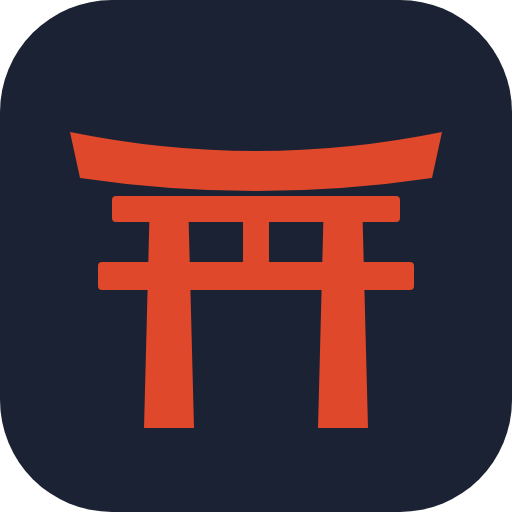
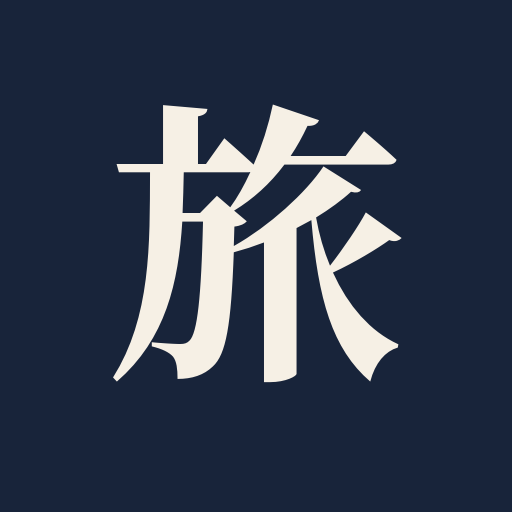
Japón v2: icono 旅, 10 ideas opcionales (relojes, JDM, amuletos) y prioridad en el selector
Claude-Session: https://claude.ai/code/session_01ChrA2XGDoeYdVmK93k58Rc

diff --git a/japon/places.js b/japon/places.js
@@ -3,6 +3,9 @@
 // approx:true = pin aproximado (la navegación usa el nombre en Google Maps).
 window.PLACE_CATS = {
   foto: { name: 'Fotografía', kind: 'shop' },
+  relojes: { name: 'Relojes japoneses', kind: 'shop' },
+  jdm: { name: 'Coches JDM', kind: 'sight' },
+  amuletos: { name: 'Santuarios y amuletos', kind: 'sight' },
   ropa: { name: 'Ropa de 2ª mano', kind: 'shop' },
   figuras: { name: 'Figuras y anime', kind: 'shop' },
   retro: { name: 'Retro y videojuegos', kind: 'shop' },
@@ -22,6 +25,9 @@ window.NEARBY = [
   { n: 'Mandarake', q: 'まんだらけ' },
   { n: 'Surugaya', q: '駿河屋' },
   { n: 'Cámaras usadas', q: '中古カメラ店' },
+  { n: 'Seiko y Citizen usados', q: 'セイコー シチズン 中古時計' },
+  { n: 'Cámaras analógicas', q: 'フィルムカメラ 中古' },
+  { n: 'Ropa de marca usada', q: 'ブランド古着' },
   { n: 'Gasolinera', q: 'ガソリンスタンド', car: true },
   { n: 'Parking', q: 'コインパーキング', car: true },
   { n: 'Onsen', q: '日帰り温泉' },
@@ -29,6 +35,18 @@ window.NEARBY = [
 ];
 
 window.PLACES = [
+  // ── Selección personalizada 2.0 (opcionales, nunca altera reservas) ──
+  {"id": "v2-mapcamera", "cat": "foto", "area": "Tokio · Shinjuku", "name": "Map Camera · Sony E y cámaras usadas", "q": "Map Camera Shinjuku", "ll": [35.6908, 139.6987], "approx": true, "fit": [9], "note": "★ Recomendado para tus intereses. Especialista en objetivos Sony E nuevos y usados; llevar la A7 IV para probar compatibilidad. Revisar precios y garantía. Mejor antes de las 19:00.", "priority": true},
+  {"id": "v2-fujiya", "cat": "foto", "area": "Tokio · Nakano", "name": "Fujiya Camera · Sony y analógicas", "q": "Fujiya Camera Nakano Tokyo", "ll": [35.7068, 139.6652], "approx": true, "fit": [14], "note": "★ Recomendado para tus intereses. Objetivos Sony E, cámaras analógicas y artículos usados. Combinar con Nakano Broadway y comparar estado y garantía.", "priority": true},
+  {"id": "v2-watch-machida", "cat": "relojes", "area": "Tokio · Machida", "name": "BOOKOFF SUPER BAZAAR Machida · relojes y ropa", "q": "BOOKOFF SUPER BAZAAR Machida Chuo-dori apparel", "ll": [35.5445, 139.4482], "approx": true, "fit": [12], "note": "★ Recomendado para tus intereses. Prioridad: Seiko, Casio y Citizen económicos, ropa de marca y accesorios. Inventario cambiante, no se garantiza stock. Hay varios locales/secciones; comprobar dirección.", "priority": true, "car": true},
+  {"id": "v2-watch-akasaka", "cat": "relojes", "area": "Tokio · Akasaka", "name": "Tokyo Watch Market · relojes usados", "q": "TOKYO WATCH MARKET Akasaka", "ll": [35.6748, 139.7367], "approx": true, "fit": [9], "note": "★ Recomendado para tus intereses. Relojería de ocasión. Interesa especialmente para Seiko/Citizen/Casio; comprobar horario en la web o redes oficiales antes de desplazarse.", "priority": true},
+  {"id": "v2-nakano-watch", "cat": "relojes", "area": "Tokio · Nakano", "name": "Nakano Broadway · galerías de relojes", "q": "Nakano Broadway", "ll": [35.709, 139.6658], "approx": true, "fit": [14], "note": "★ Recomendado para tus intereses. Comparar relojes de varias tiendas; algunas se centran en lujo y no encajan con presupuesto económico. Se combina con Fujiya.", "priority": true},
+  {"id": "v2-koenji-ropa", "cat": "ropa", "area": "Tokio · Kōenji", "name": "Kōenji · ropa vintage de marca", "q": "Koenji Shopping Street Tokyo", "ll": [35.704, 139.65], "approx": true, "fit": [14], "note": "★ Recomendado para tus intereses. Tiendas de ropa vintage y marcas usadas; comparar estado y precio con 2nd Street/TreFacStyle. Visita solo si queda margen tras Nakano.", "priority": true},
+  {"id": "v2-jdm-daikoku", "cat": "jdm", "area": "Yokohama · autopista", "name": "Daikoku PA · coches JDM", "q": "Daikoku Parking Area Yokohama", "ll": [35.461, 139.678], "approx": true, "fit": [13], "note": "★ Recomendado para tus intereses. Encuentro informal: NO hay quedada garantizada; accesible únicamente desde autopista en coche y puede cerrar por seguridad/policía. Comprobar permisos de conducción y plan B.", "priority": true, "car": true},
+  {"id": "v2-amuleto-ichigaya", "cat": "amuletos", "area": "Tokio · Ichigaya", "name": "Ichigaya Kameoka Hachimangū · mascotas", "q": "市谷亀岡八幡宮", "ll": [35.693, 139.735], "approx": true, "fit": [9], "note": "★ Recomendado para tus intereses. Santuario asociado con mascotas. Comprobar días y disponibilidad de omamori para perros antes de ir; visita opcional.", "priority": true},
+  {"id": "v2-amuleto-inabado", "cat": "amuletos", "area": "Kioto · Shijō", "name": "Byōdō-ji Inaba-dō · amuletos", "q": "平等寺 因幡堂 京都", "ll": [35.0018, 135.7607], "approx": true, "fit": [5], "note": "★ Recomendado para tus intereses. Templo con amuletos de animales y plegarias de salud. Comprobar horario del puesto y disponibilidad del diseño.", "priority": true},
+  {"id": "v2-amuleto-nishiki", "cat": "amuletos", "area": "Kioto · Nishiki", "name": "Nishiki Tenmangū · santuario", "q": "錦天満宮 京都", "ll": [35.005, 135.768], "approx": true, "fit": [5], "note": "★ Recomendado para tus intereses. Santuario cerca de Nishiki y las calles comerciales; parada corta si coincide con la ruta. No se garantiza que venda amuletos de perros.", "priority": true},
+
 
   // ── De tus listas de Google Maps: los que quedan fuera de ruta ──────
   {"id": "gm-shizuoka-kanteidan-garage-ma", "cat": "mercado", "area": "Fuera de ruta", "name": "Shizuoka Kanteidan Garage Market Makinohara", "q": "Shizuoka Kanteidan Garage Market Makinohara", "ll": [34.68743, 138.19155], "fit": [], "car": true, "note": "De tu lista «Quiero ir» de Google Maps. Queda a más de 1 h de la ruta: solo si cambiáis el plan."},

diff --git a/japon/app.js b/japon/app.js
@@ -304,6 +304,9 @@
     target: svg('<circle cx="12" cy="12" r="7"/><circle cx="12" cy="12" r="2"/><path d="M12 2v3M12 19v3M2 12h3M19 12h3"/>')
   };
   var CAT_ICON = {
+    relojes: svg('<circle cx="12" cy="12" r="7"/><path d="M12 8v4l3 2M9 2h6M9 22h6"/>'),
+    jdm: svg('<path d="M5 16l1-5 3-4h6l3 4 1 5zM5 16H3v3h3M19 16h2v3h-3"/><circle cx="8" cy="17" r="1"/><circle cx="16" cy="17" r="1"/>'),
+    amuletos: svg('<path d="M12 3L5 9v12h14V9zM5 10h14M9 21v-7h6v7"/>'),
     foto: svg('<rect x="3.5" y="7" width="17" height="12" rx="2"/><circle cx="12" cy="13" r="3.5"/><path d="M8.5 7l1.5-2.5h4L15.5 7"/>'),
     ropa: svg('<path d="M8 4 3.5 7l2 4L8 10v10h8V10l2.5 1 2-4L16 4c-.6 1.4-2 2.4-4 2.4S8.6 5.4 8 4z"/>'),
     figuras: svg('<path d="M12 3.5l2.6 5.3 5.9.9-4.3 4.1 1 5.8L12 16.9l-5.2 2.7 1-5.8-4.3-4.1 5.9-.9z"/>'),
@@ -975,7 +978,7 @@
       return (p.name + ' ' + (p.ja || '') + ' ' + p.area + ' ' + p.note).toLowerCase().indexOf(q) >= 0;
     }).map(function (p) {
       return { p: p, d: p.ll ? haversine(c, p.ll) : Infinity, fits: p.fit && p.fit.indexOf(addDay) >= 0 };
-    }).sort(function (a, b) { return (b.fits - a.fits) || (a.d - b.d); });
+    }).sort(function (a, b) { return (b.fits - a.fits) || (Number(!!b.p.priority) - Number(!!a.p.priority)) || (a.d - b.d); });
 
     html += '<li class="idea-group">Ideas, de más cerca a más lejos</li>';
     html += items.map(function (x) {
@@ -983,7 +986,7 @@
       return '<li class="idea"><span class="idea__icon">' + (CAT_ICON[p.cat] || ICON.pin) + '</span><div class="idea__body">' +
         '<p class="idea__name">' + esc(p.name) + '</p>' +
         '<p class="idea__meta">' + esc(CATS[p.cat].name) + ' · ' + esc(p.area) + (isFinite(x.d) ? ' · a ' + fmtDist(x.d) : '') +
-        (x.fits ? ' · <b>encaja este día</b>' : '') + (p.car ? ' · en coche' : '') +
+        (p.priority ? ' · ★ selección personalizada' : '') + (x.fits ? ' · <b>encaja este día</b>' : '') + (p.car ? ' · en coche' : '') +
         (other && !here ? ' · ya en el día ' + other.join(', ') : '') + '</p>' +
         '<p class="idea__note">' + esc(p.note) + '</p></div>' +
         (here ? '<span class="idea__in">En el día</span>' : '<button class="btn btn--sm btn--primary" type="button" data-addplace="' + esc(p.id) + '" data-day="' + addDay + '">Añadir</button>') +

diff --git a/japon/index.html b/japon/index.html
@@ -5,10 +5,10 @@
   <meta name="viewport" content="width=device-width, initial-scale=1, viewport-fit=cover" />
   <title>Ruta Japón 2026</title>
   <meta name="description" content="Itinerario revisado del viaje a Japón (15–29 nov 2026) con mapas, rutas y reservas." />
-  <meta name="theme-color" content="#1b2233" />
+  <meta name="theme-color" content="#18243A" />
   <link rel="manifest" href="manifest.webmanifest" />
   <link rel="icon" href="icon.svg" type="image/svg+xml" />
-  <link rel="apple-touch-icon" href="icon-192.png" />
+  <link rel="apple-touch-icon" sizes="192x192" href="icon-192.png" />
   <meta name="apple-mobile-web-app-capable" content="yes" />
   <meta name="apple-mobile-web-app-status-bar-style" content="black-translucent" />
   <link rel="preconnect" href="https://fonts.googleapis.com" />

diff --git a/japon/sw.js b/japon/sw.js
@@ -1,5 +1,5 @@
 // Service worker: la app funciona sin conexión y guarda los mapas ya vistos.
-var VERSION = 'ruta-japon-v18';
+var VERSION = 'ruta-japon-v21-icono-tabi';
 var SHELL = [
   './',
   'index.html',
@@ -11,6 +11,7 @@ var SHELL = [
   'manifest.webmanifest',
   'icon.svg',
   'icon-192.png',
+  'icon-512.png',
   'vendor/leaflet/leaflet.js',
   'vendor/leaflet/leaflet.css'
 ];
